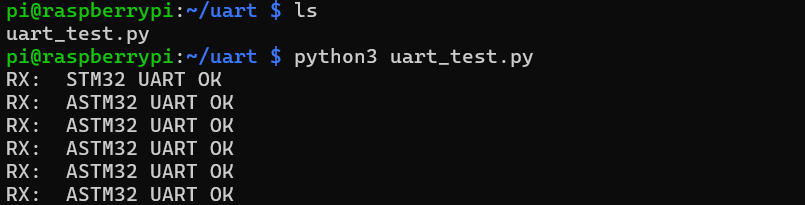
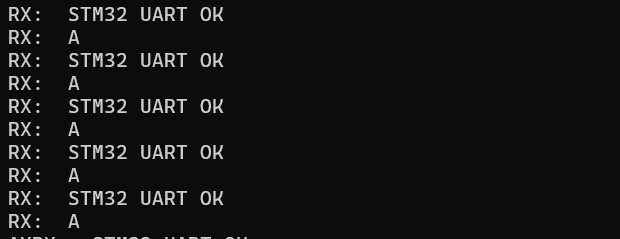
[Upload] ST Motor

Changed region(s): [[0.0, 0.1171, 0.6742, 0.761], [0.0, 0.7902, 0.3984, 1.0], [0.0, 0.0, 0.3984, 0.1171]]

diff --git a/RCcar/STM_Motor/dcmotor_test.c b/RCcar/STM_Motor/dcmotor_test.c
@@ -1,0 +1,38 @@
+int main(void)
+{
+  HAL_Init();
+
+  SystemClock_Config();
+
+  MX_GPIO_Init();
+  MX_USART2_UART_Init();
+
+  // ENA(PC3) = 1, IN1(PC6) = 1, IN2(PC8) = 0  → 한 방향 회전
+  HAL_GPIO_WritePin(GPIOC, Motor_ENA_Pin, GPIO_PIN_SET);   // ENA 켜기
+  HAL_GPIO_WritePin(GPIOC, Motor_IN1_Pin, GPIO_PIN_SET);   // IN1 = 1
+  HAL_GPIO_WritePin(GPIOC, Motor_IN2_Pin, GPIO_PIN_RESET); // IN2 = 0
+
+  while (1)
+  {
+
+  }
+}
+
+
+/*
+// gpio.c
+
+void MX_GPIO_Init(void)
+{
+  __HAL_RCC_GPIOA_CLK_ENABLE();
+  __HAL_RCC_GPIOC_CLK_ENABLE();
+
+  HAL_GPIO_WritePin(GPIOC, Motor_ENA_Pin|Motor_IN1_Pin|Motor_IN2_Pin, GPIO_PIN_RESET);
+
+  GPIO_InitStruct.Pin = Motor_ENA_Pin|Motor_IN1_Pin|Motor_IN2_Pin;
+  GPIO_InitStruct.Mode = GPIO_MODE_OUTPUT_PP;
+  GPIO_InitStruct.Pull = GPIO_NOPULL;
+  GPIO_InitStruct.Speed = GPIO_SPEED_FREQ_LOW;
+  HAL_GPIO_Init(GPIOC, &GPIO_InitStruct);
+}
+*/

diff --git a/RCcar/STM_Motor/servo_test.c b/RCcar/STM_Motor/servo_test.c
@@ -1,0 +1,34 @@
+void Servo_SetAngle(uint8_t angle)
+{
+  // 1ms ~ 2ms 펄스 → 0도~180도
+  // 1ms = 1000, 2ms = 2000 (1us 단위)
+  uint16_t min_pulse = 1000;
+  uint16_t max_pulse = 2000;
+
+  uint16_t pulse = min_pulse + (max_pulse - min_pulse) * angle / 180;
+
+  __HAL_TIM_SET_COMPARE(&htim3, TIM_CHANNEL_1, pulse);
+}
+
+int main(void)
+{
+  HAL_Init();
+  SystemClock_Config();
+  MX_GPIO_Init();
+  MX_USART2_UART_Init();
+  MX_TIM3_Init();
+
+  HAL_TIM_PWM_Start(&htim3, TIM_CHANNEL_1);
+
+  while (1)
+  {
+      Servo_SetAngle(0); // LEFT
+      HAL_Delay(1000);
+
+      Servo_SetAngle(75); // MIDDLE
+      HAL_Delay(1000);
+
+      Servo_SetAngle(150); // RIGHT
+      HAL_Delay(1000);
+  }
+}

diff --git a/RCcar/STM_Motor/uart_test.c b/RCcar/STM_Motor/uart_test.c
@@ -43,9 +43,11 @@ int main(void)
 
     // 2) 수신 데이터가 있으면 1바이트 읽어서 다시 에코
     uint8_t ch;
+    uint8_t buf[2];
     if (HAL_UART_Receive(&huart2, &ch, 1, 10) == HAL_OK) {
-      // 받은 글자를 다시 전송 (에코)
-      HAL_UART_Transmit(&huart2, &ch, 1, 10);
+      buf[0] = ch;
+      buf[1] = '\n';  // 개행 추가
+      HAL_UART_Transmit(&huart2, buf, 2, 10);
     }
 
     // 너무 바쁘게 돌지 않게 약간 쉼

diff --git a/RCcar/STM_Motor/uart_test.py b/RCcar/STM_Motor/uart_test.py
@@ -1,0 +1,11 @@
+import serial, time
+
+ser = serial.Serial('/dev/ttyAMC0', 115200, timeout=1)
+
+while True:
+    line = ser.readline()
+    if line:
+        print("RX:", line.decode(errors='ignore').strip())
+
+    ser.write(b'A')
+    time.sleep(1)

diff --git a/RCcar/STM_Motor/SMTMotor.md b/RCcar/STM_Motor/SMTMotor.md
@@ -9,3 +9,52 @@ CubeIDE를 통해서 NUCLEO-F103RB에 업로드
 <img src="./images/image_uarttest.png"> 
 
 
+## 2. DC Motor Test
+NUCLEO-F103RB에 모터드라이버(L298N) 연결  
+NUCLEO-F103RB의 PIN PC5, PC6, PC8 이용  
+
+- L298N ENA - NUCLEO PC5
+- L298N IN1 - NUCLEO PC6
+- L298N IN2 - NUCLEO PC8
+- L298N OUT1 - DC Motor
+- L298N OUT2 - DC Motor
+- L298N 12V - 전원
+- L298N GND - 전원 GND
+- L298N GND - NUCLEO GND
+
+<img src="./images/image_L298N.jpg"> 
+
+
+### L298N
+모터가 채널 A를 사용하는 경우, 모터는 OUT1과 OUT2핀에 연결되어야 한다.  
+모터를 켜려면 Enable A핀이 High 상태여야 하며,  
+모터를 시계 방향으로 동작시키려면 IN1은 High 상태, IN2는 Low 상태여야 한다.  
+모터를 반시계 방향으로 동작시키려면 IN1은 Low 상태, IN2는 High 상태여야 한다.  
+[L298N 설명](https://www.teachmemicro.com/use-l298n-motor-driver/)
+
+
+## 3. Servo Motor Test
+
+### TIM3 설정
+서보모터는 PWN 신호를 받는다.  
+주기가 20mx(50Hz)일 때, 펄스 폭이 1ms면 0도, 1.5ms이면 90도, 2ms면 180도로 출력된다.  
+
+서보는 매 20ms마다 들어오는 High 구간의 길이를 보고 각도를 정하는 것이다.  
+
+정확한 펄스 길이를 만들기 위해서 MCU의 Timer를 이용하여 신호를 만든다.  
+
+- 설정
+  - Timers → TIM3  
+  - Channel1 를 PWM Generation CH1 로 설정  
+  - -> 자동으로 PA6 가 PWM 핀으로 잡힘  
+Prescaler: 72-1 -> 72MHz / 72 = 1MHz (1us)  
+Period: 20000-1 -> 1MHz 기준 20000us = 20ms
+
+<br>
+
+### 내 RC car 방향
+- 0 = LEFT
+- 75 = MIDDLE
+- 150 = RIGHT
+
+<img src="./images/image_servo.jpg"> 
